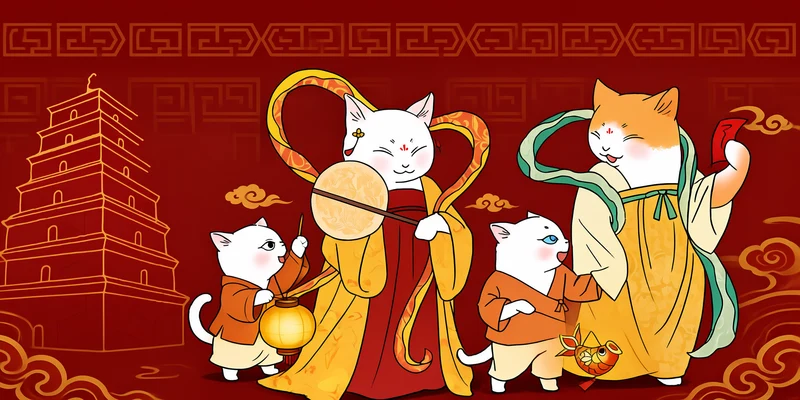
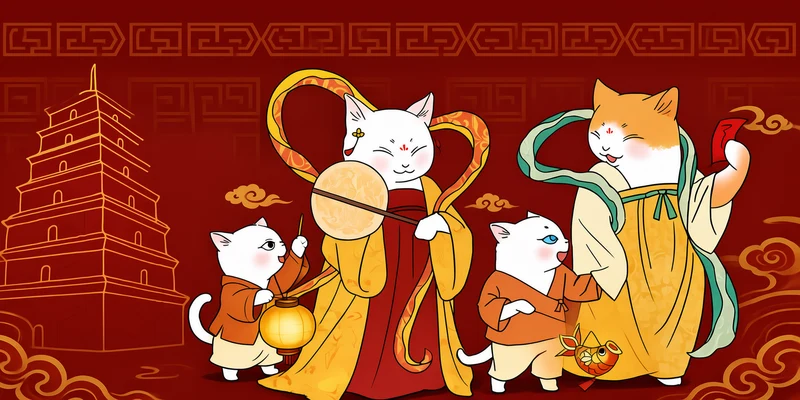
修复: 大雁塔塔尖与塔身轮廓断线闭合,hero资产更新

diff --git a/index.html b/index.html
@@ -98,7 +98,7 @@
                     </div>
 
                     <div class="text-center mt-4 mb-2">
-                        <img src="/assets/illustrations/hero-tangcat.webp?v=20260924" alt="唐猫庭院 · 三只唐装猫与大雁塔" class="img-fluid" style="width:100%;max-width:640px;border-radius:14px;border:1px solid rgba(201,169,110,0.45);box-shadow:0 8px 28px rgba(0,0,0,0.45);">
+                        <img src="/assets/illustrations/hero-tangcat.webp?v=20260924b" alt="唐猫庭院 · 三只唐装猫与大雁塔" class="img-fluid" style="width:100%;max-width:640px;border-radius:14px;border:1px solid rgba(201,169,110,0.45);box-shadow:0 8px 28px rgba(0,0,0,0.45);">
                     </div>
                 </div>
 
